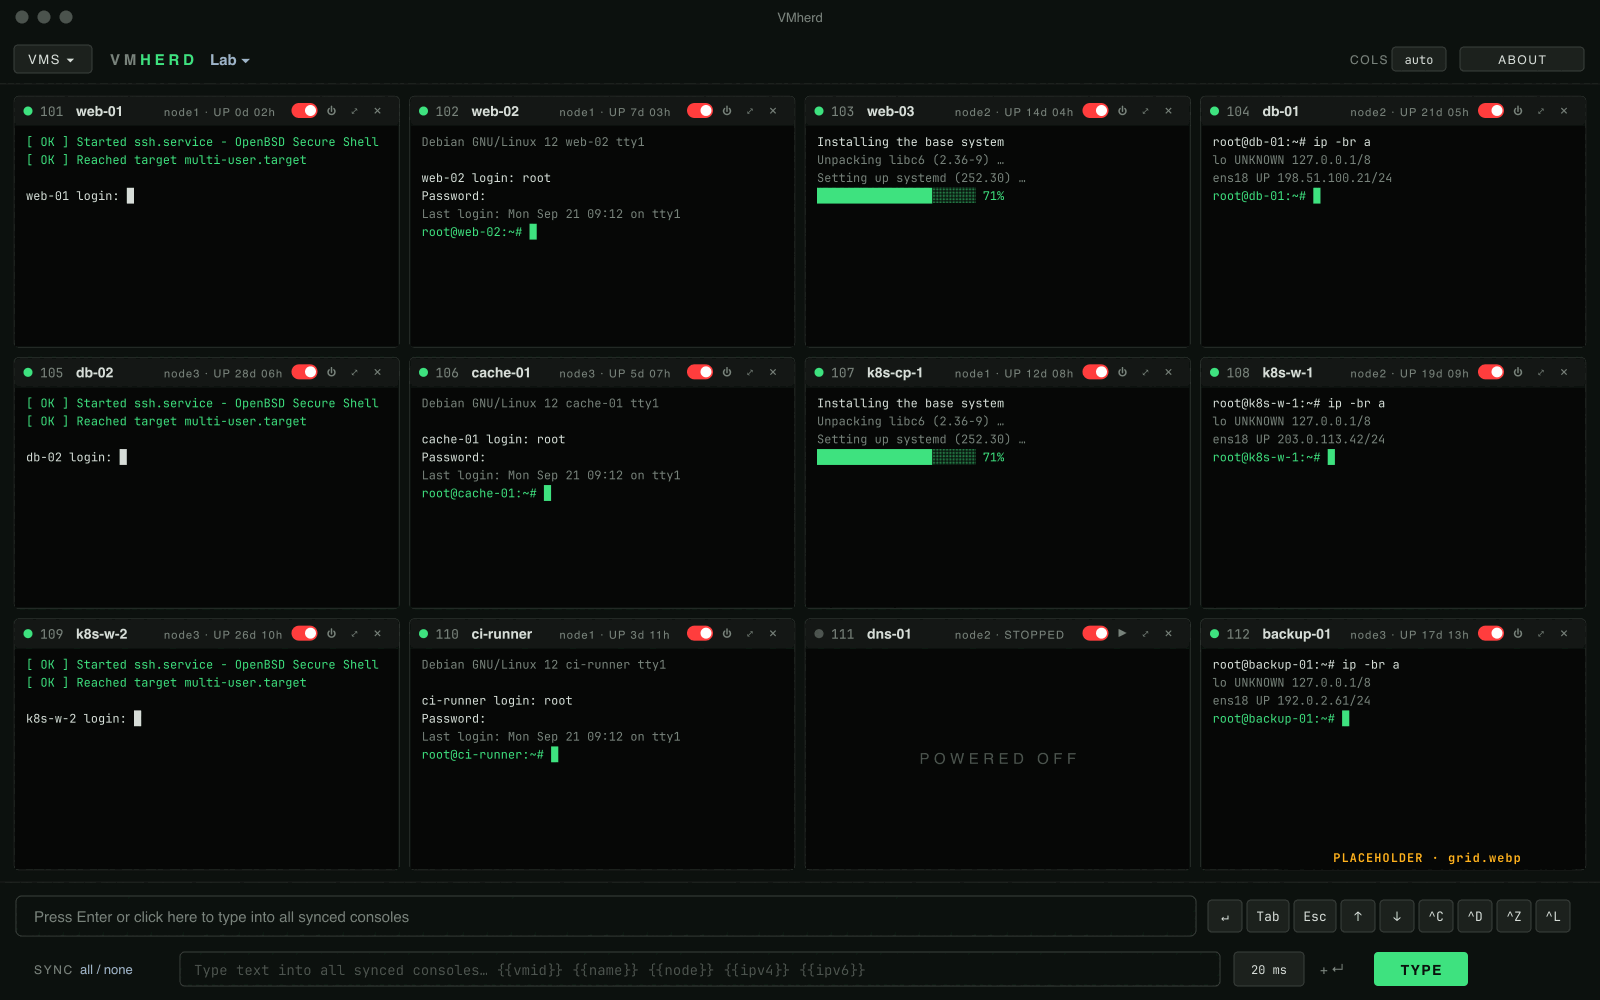
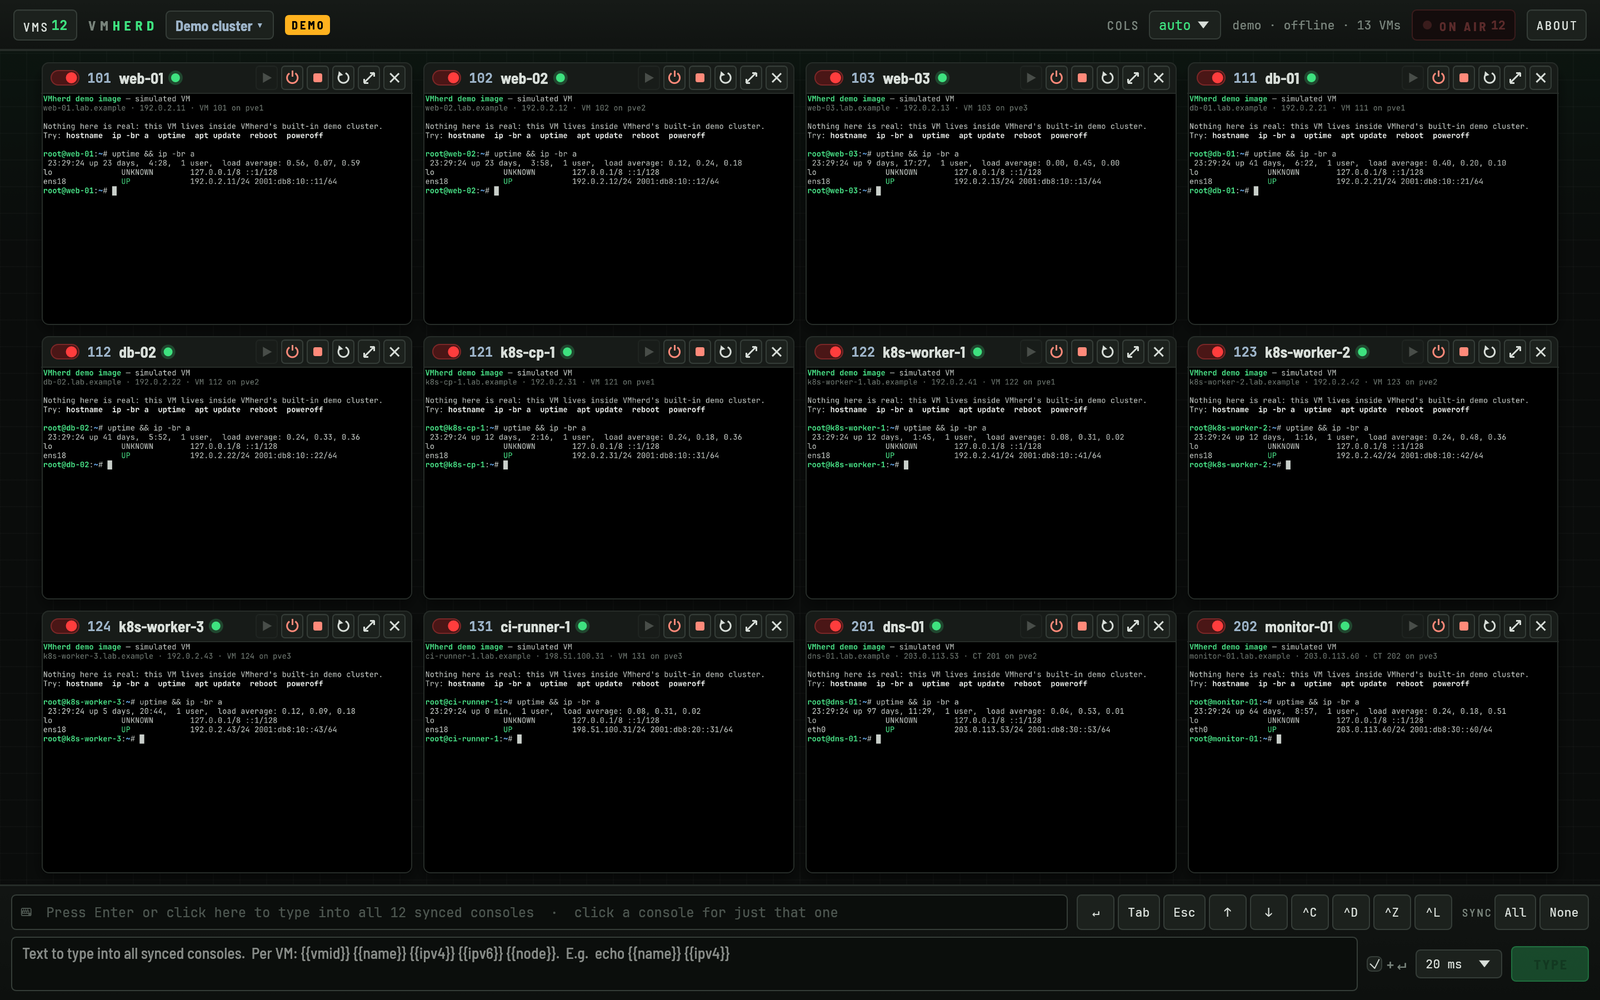
Store screenshots from the demo cluster; real captures on the website
tools/store-shots/make.py captures each demo scene, frames it for the Mac
App Store (2880x1800, no alpha) and writes 1600x1000 copies for the site.

diff --git a/tools/store-shots/frame.html b/tools/store-shots/frame.html
@@ -1,0 +1,173 @@
+<!doctype html>
+<!-- One Mac App Store screenshot: headline + app capture (+ optional zoom lens). Rendered at
+     1440x900 CSS px with device scale 2 (= 2880x1800) by tools/store-shots/make.py; the scene
+     comes in the URL hash as JSON. -->
+<html lang="en">
+<head>
+<meta charset="utf-8">
+<style>
+@font-face { font-family: "Barlow"; font-weight: 500; src: url("../../assets/fonts/BarlowSemiCondensed-Medium.ttf"); }
+@font-face { font-family: "Barlow"; font-weight: 700; src: url("../../assets/fonts/BarlowSemiCondensed-Bold.ttf"); }
+@font-face { font-family: "Mono"; font-weight: 400; src: url("../../assets/fonts/JetBrainsMono-Regular.ttf"); }
+@font-face { font-family: "Mono"; font-weight: 700; src: url("../../assets/fonts/JetBrainsMono-Bold.ttf"); }
+:root {
+  --bg: #0a0c0b;
+  --text: #e8ece9;
+  --soft: #9aa39e;
+  --line: #262c29;
+  --green: #3ddc84;
+  --amber: #f5b53d;
+  --red: #ff5a52;
+}
+* { box-sizing: border-box; margin: 0; }
+html, body { width: 1440px; height: 900px; overflow: hidden; background: var(--bg); }
+body {
+  position: relative;
+  color: var(--text);
+  font-family: "Barlow", sans-serif;
+  background:
+    radial-gradient(900px 520px at 12% -8%, rgba(61, 220, 132, 0.16), transparent 70%),
+    radial-gradient(700px 500px at 100% 110%, rgba(61, 220, 132, 0.08), transparent 70%),
+    repeating-linear-gradient(0deg, rgba(255, 255, 255, 0.028) 0 1px, transparent 1px 40px),
+    repeating-linear-gradient(90deg, rgba(255, 255, 255, 0.028) 0 1px, transparent 1px 40px),
+    var(--bg);
+}
+.head { position: absolute; left: 130px; top: 46px; width: 1180px; }
+.eyebrow {
+  font: 700 15px/1 "Mono", monospace;
+  letter-spacing: 0.2em;
+  text-transform: uppercase;
+  color: var(--green);
+}
+.eyebrow .n { color: var(--soft); margin-right: 12px; }
+h1 {
+  margin-top: 16px;
+  font-weight: 700;
+  font-size: 60px;
+  line-height: 1;
+  letter-spacing: -0.01em;
+  white-space: nowrap;
+}
+h1 em { font-style: normal; color: var(--green); }
+.sub {
+  margin-top: 14px;
+  font-weight: 500;
+  font-size: 22px;
+  line-height: 1.3;
+  color: var(--soft);
+  white-space: nowrap;
+}
+.sub code, .chip code { font-family: "Mono", monospace; color: var(--text); font-size: 0.86em; }
+.chips { position: absolute; right: 130px; top: 38px; display: flex; gap: 10px; }
+.chip {
+  padding: 7px 12px;
+  border: 1px solid var(--line);
+  border-radius: 999px;
+  background: rgba(18, 21, 19, 0.85);
+  font: 400 14px/1 "Mono", monospace;
+  color: var(--soft);
+  white-space: nowrap;
+}
+.chip::before { content: "● "; color: var(--green); }
+.shot {
+  position: absolute;
+  left: 130px;
+  top: 212px;
+  width: 1180px;
+  height: 737.5px;
+  border-radius: 18px;
+  overflow: hidden;
+  border: 1px solid #2c332f;
+  box-shadow: 0 40px 90px rgba(0, 0, 0, 0.65), 0 0 0 6px rgba(61, 220, 132, 0.05);
+}
+.shot img { display: block; width: 100%; height: 100%; }
+.mark {
+  position: absolute;
+  border: 2px solid var(--green);
+  border-radius: 8px;
+  box-shadow: 0 0 0 4px rgba(61, 220, 132, 0.18);
+}
+.lens {
+  position: absolute;
+  overflow: hidden;
+  border: 2px solid var(--green);
+  border-radius: 14px;
+  background-repeat: no-repeat;
+  box-shadow: 0 30px 70px rgba(0, 0, 0, 0.75), 0 0 0 8px rgba(61, 220, 132, 0.12);
+}
+.lens .tag {
+  position: absolute;
+  left: 0;
+  bottom: 0;
+  padding: 7px 12px;
+  border-top-right-radius: 10px;
+  background: var(--green);
+  color: #06140c;
+  font: 700 15px/1 "Mono", monospace;
+}
+svg.wire { position: absolute; inset: 0; width: 1440px; height: 900px; pointer-events: none; }
+</style>
+</head>
+<body>
+<div class="head">
+  <p class="eyebrow"><span class="n"></span><span class="e"></span></p>
+  <h1></h1>
+  <p class="sub"></p>
+</div>
+<div class="chips"></div>
+<div class="shot"><img alt=""></div>
+<script>
+const s = JSON.parse(decodeURIComponent(location.hash.slice(1)));
+const esc = (t) => t.replace(/[&<>]/g, (c) => ({ "&": "&amp;", "<": "&lt;", ">": "&gt;" })[c]);
+// *green*, `code`, and \n line breaks
+const rich = (t) => esc(t).replace(/\*(.+?)\*/g, "<em>$1</em>").replace(/`(.+?)`/g, "<code>$1</code>").replace(/\n/g, "<br>");
+document.querySelector(".eyebrow .n").textContent = s.n;
+document.querySelector(".eyebrow .e").textContent = s.eyebrow;
+document.querySelector("h1").innerHTML = rich(s.title);
+document.querySelector(".sub").innerHTML = rich(s.sub);
+for (const c of s.chips || []) {
+  const el = document.createElement("span");
+  el.className = "chip";
+  el.innerHTML = rich(c);
+  document.querySelector(".chips").append(el);
+}
+const img = document.querySelector(".shot img");
+img.src = s.shot;
+// raw capture px -> page px
+const shot = { x: 130, y: 212, w: 1180, rawW: 2880 };
+const k = shot.w / shot.rawW;
+if (s.lens) {
+  const [rx, ry, rw, rh] = s.lens.src; // region in raw capture px
+  const mark = document.createElement("div");
+  mark.className = "mark";
+  const mx = shot.x + rx * k, my = shot.y + ry * k, mw = rw * k, mh = rh * k;
+  Object.assign(mark.style, { left: `${mx - 4}px`, top: `${my - 4}px`, width: `${mw + 8}px`, height: `${mh + 8}px` });
+  document.body.append(mark);
+  const z = s.lens.scale; // page px per raw px inside the lens
+  const [lx, ly] = s.lens.at;
+  const lw = rw * z, lh = rh * z;
+  const lens = document.createElement("div");
+  lens.className = "lens";
+  Object.assign(lens.style, {
+    left: `${lx}px`, top: `${ly}px`, width: `${lw}px`, height: `${lh}px`,
+    backgroundImage: `url("${s.shot}")`,
+    backgroundSize: `${shot.rawW * z}px auto`,
+    backgroundPosition: `${-rx * z}px ${-ry * z}px`,
+  });
+  if (s.lens.tag) {
+    const tag = document.createElement("span");
+    tag.className = "tag";
+    tag.textContent = s.lens.tag;
+    lens.append(tag);
+  }
+  // wire from the marked region to the lens
+  const svg = document.createElementNS("http://www.w3.org/2000/svg", "svg");
+  svg.setAttribute("class", "wire");
+  const a = { x: mx + mw / 2, y: my + mh / 2 };
+  const b = { x: lx + lw / 2, y: ly + lh / 2 };
+  svg.innerHTML = `<line x1="${a.x}" y1="${a.y}" x2="${b.x}" y2="${b.y}" stroke="#3ddc84" stroke-width="2" stroke-dasharray="6 6" opacity="0.8"/>`;
+  document.body.append(svg, lens);
+}
+</script>
+</body>
+</html>

diff --git a/tools/store-shots/make.py b/tools/store-shots/make.py
@@ -1,0 +1,165 @@
+#!/usr/bin/env python3
+"""Mac App Store screenshots and website screenshots from the built-in demo cluster.
+
+1. Captures every scene with `vmherd --demo --scene <name>` (needs a build with the store-shots
+   feature; the app window shows briefly) into dist/store-shots/raw/ (2880x1800, no alpha).
+2. Frames them with tools/store-shots/frame.html in headless Chrome: dist/store-shots/appstore/
+   NN-name.png, 2880x1800, no alpha channel (App Store Connect rejects alpha).
+3. Writes the raw captures at 1600x1000 (png + webp) to website/assets/shots/.
+
+Usage: tools/store-shots/make.py [--no-capture] [--only name,...]
+Needs: Google Chrome, ImageMagick (magick), cwebp or magick with webp support, sips.
+"""
+
+import argparse
+import json
+import os
+import shutil
+import subprocess
+import sys
+import tempfile
+import time
+import urllib.parse
+from pathlib import Path
+
+ROOT = Path(__file__).resolve().parents[2]
+RAW = ROOT / "dist/store-shots/raw"
+OUT = ROOT / "dist/store-shots/appstore"
+SITE = ROOT / "website/assets/shots"
+FRAME = ROOT / "tools/store-shots/frame.html"
+CHROME = "/Applications/Google Chrome.app/Contents/MacOS/Google Chrome"
+BG = "#0a0c0b"
+
+# Order = order on the App Store (the first three show in search results).
+SCENES = [
+    {
+        "scene": "broadcast", "n": "01", "eyebrow": "Broadcast",
+        "title": "Type once. *Every console follows.*",
+        "sub": "Press Enter and you're ON AIR: every keystroke goes to all synced consoles as real key presses.",
+        "chips": ["`apt update` × 8", "hold `Esc` 1 s to stop", "`⌘V` types the clipboard"],
+        "lens": {"src": [416, 112, 664, 260], "scale": 0.72, "at": [800, 250],
+                 "tag": "same keys, every synced console"},
+    },
+    {
+        "scene": "grid", "n": "02", "eyebrow": "Live grid",
+        "title": "Every VM console. *One window.*",
+        "sub": "Live consoles of your Proxmox VE VMs and containers, side by side. No browser tabs, no noVNC windows.",
+        "chips": ["VMs + containers", "auto layout, up to 8 columns", "reconnects by itself"],
+        "lens": {"src": [76, 114, 664, 250], "scale": 0.72, "at": [800, 250], "tag": "a live console per VM"},
+    },
+    {
+        "scene": "placeholders", "n": "03", "eyebrow": "Per-VM values",
+        "title": "Type it once. *Every VM gets its own.*",
+        "sub": "Placeholders are filled in per machine: `hostnamectl set-hostname {{name}}` names each VM after itself.",
+        "chips": ["`{{vmid}}` `{{name}}` `{{node}}`", "`{{ipv4}}` `{{ipv6}}` from the guest", "per-key delay, reliable input"],
+        "lens": {"src": [416, 112, 664, 220], "scale": 0.75, "at": [780, 250],
+                 "tag": "{{name}} {{ipv4}} → web-01 192.0.2.11"},
+    },
+    {
+        "scene": "picker", "n": "04", "eyebrow": "Find the herd",
+        "title": "Any VM. *A few keystrokes away.*",
+        "sub": "Search by name, VMID, node, status or tag. A space means AND, a comma means OR.",
+        "chips": ["space = AND · comma = OR", "paste a column of VMIDs", "`/` `Tab` `Space` `Enter`"],
+        "lens": {"src": [24, 116, 1240, 490], "scale": 0.42, "at": [800, 560], "tag": "\"prod\": 5 VMs, picked in order"},
+    },
+    {
+        "scene": "solo", "n": "05", "eyebrow": "Solo",
+        "title": "Or take *just one.*",
+        "sub": "Click a console to drive that one VM, keyboard and mouse. No Proxmox web interface needed.",
+        "chips": ["click to go solo", "keys + mouse to one VM", "hold `Esc` to let go"],
+        "lens": {"src": [416, 112, 664, 240], "scale": 0.72, "at": [800, 250], "tag": "SOLO: this VM only"},
+    },
+    {
+        "scene": "power", "n": "06", "eyebrow": "Power",
+        "title": "Power buttons, *right on the tile.*",
+        "sub": "Start, shut down or stop each VM. Shutdown and stop ask for a second click, so nothing goes down by accident.",
+        "chips": ["start · shutdown · stop", "armed second click", "task status as a toast"],
+        "lens": {"src": [416, 1100, 664, 200], "scale": 0.72, "at": [800, 250], "tag": "second click: STOP"},
+    },
+    {
+        "scene": "maximized", "n": "07", "eyebrow": "Full window",
+        "title": "One click to *full screen.*",
+        "sub": "Watch it boot, get through the installer, then drop back into the grid.",
+        "chips": ["watch it boot", "fix the installer", "`Esc` back to the grid"],
+    },
+]
+
+
+def run(*cmd, **kw):
+    return subprocess.run(cmd, check=True, **kw)
+
+
+def no_alpha(path):
+    out = subprocess.run(["sips", "-g", "hasAlpha", str(path)], capture_output=True, text=True).stdout
+    return "hasAlpha: no" in out
+
+
+def capture(names):
+    exe = ROOT / "target/release/vmherd"
+    if not exe.exists():
+        sys.exit("build first: cargo build --release -p vmherd --features store-shots")
+    RAW.mkdir(parents=True, exist_ok=True)
+    home = tempfile.mkdtemp()  # nothing may be written, but never the real settings
+    for name in names:
+        print(f"capture {name}")
+        run(str(exe), "--demo", "--scene", name, "--out", str(RAW / f"{name}.png"),
+            env={**os.environ, "HOME": home}, stdout=subprocess.DEVNULL, stderr=subprocess.DEVNULL)
+    if os.listdir(home):
+        sys.exit(f"the demo wrote into its HOME ({home}); refusing to continue")
+    shutil.rmtree(home)
+
+
+def frame(s):
+    OUT.mkdir(parents=True, exist_ok=True)
+    spec = {k: v for k, v in s.items() if k != "scene"}
+    spec["shot"] = (RAW / f"{s['scene']}.png").as_uri()
+    url = FRAME.as_uri() + "#" + urllib.parse.quote(json.dumps(spec))
+    out = OUT / f"{s['n']}-{s['scene']}.png"
+    out.unlink(missing_ok=True)
+    with tempfile.TemporaryDirectory() as profile:
+        chrome = subprocess.Popen(
+            [CHROME, "--headless=new", "--disable-gpu", "--hide-scrollbars", "--allow-file-access-from-files",
+             f"--user-data-dir={profile}", "--force-device-scale-factor=2", "--window-size=1440,900",
+             "--virtual-time-budget=3000", f"--screenshot={out}", url],
+            stdout=subprocess.DEVNULL, stderr=subprocess.DEVNULL)
+        # Chrome sometimes keeps running after it wrote the screenshot: wait for the file, then stop it.
+        for _ in range(120):
+            if chrome.poll() is not None or (out.exists() and out.stat().st_size > 0):
+                break
+            time.sleep(0.5)
+        time.sleep(1)
+        chrome.terminate()
+        chrome.wait(10)
+    if not out.exists():
+        sys.exit(f"Chrome wrote no screenshot for {s['scene']}")
+    run("magick", str(out), "-background", BG, "-alpha", "remove", "-alpha", "off", str(out))
+    assert no_alpha(out), out
+    print(f"framed {out.relative_to(ROOT)}")
+
+
+def site(name):
+    SITE.mkdir(parents=True, exist_ok=True)
+    png, webp = SITE / f"{name}.png", SITE / f"{name}.webp"
+    run("magick", str(RAW / f"{name}.png"), "-filter", "Lanczos", "-resize", "1600x1000", "-strip", str(png))
+    if shutil.which("cwebp"):
+        run("cwebp", "-quiet", "-q", "86", str(png), "-o", str(webp))
+    else:
+        run("magick", str(png), "-quality", "86", str(webp))
+    print(f"site   {png.relative_to(ROOT)} (+ .webp)")
+
+
+def main():
+    ap = argparse.ArgumentParser()
+    ap.add_argument("--no-capture", action="store_true", help="reuse dist/store-shots/raw")
+    ap.add_argument("--only", help="comma-separated scene names")
+    a = ap.parse_args()
+    scenes = [s for s in SCENES if not a.only or s["scene"] in a.only.split(",")]
+    if not a.no_capture:
+        capture([s["scene"] for s in scenes])
+    for s in scenes:
+        frame(s)
+        site(s["scene"])
+
+
+if __name__ == "__main__":
+    main()
